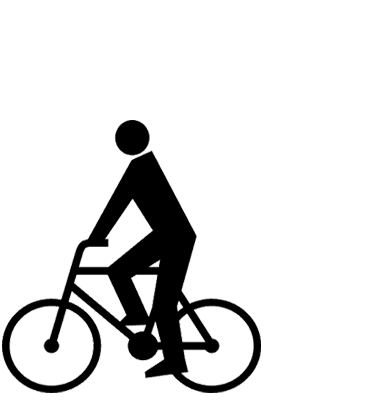
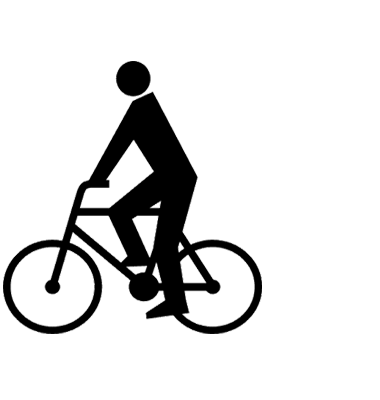
resize sections

Changed region(s): [[0.0, 0.15, 0.6947, 0.99]]

diff --git a/index.html b/index.html
@@ -9,7 +9,7 @@
     
   </head>
   <body>
-    <section id="first" class="story" data-speed="8" data-type="background">      
+    <section id="first" class="section" data-speed="8" data-type="background">      
       <div class="bicycler" data-type="sprite" data-offsetY="100" data-Xposition="50%" data-speed="-2"></div>    
       <article>
         <div id="floating-tacos">
@@ -752,19 +752,19 @@
       </article>
     </section>
       
-    <section id="second" class="story" data-speed="4" data-type="background">
+    <section id="second" class="section" data-speed="4" data-type="background">
       <article>
         <h1>A conference based on bicycles and tacos</h1>
-        <p>Day 1: Oakland, California<br>
-          Day 2: San Francisco, California<br>
-          Free to attend, see map below for details
+        <p><strong>Day 1:</strong> Oakland, California <strong>Day 2:</strong> San Francisco, California</p>
+        <p>
+          Free to attend, see map below for the starting locations. TacoConf is a mobile conference so if you want to stay up to date in real-time then follow <a href="http://twitter.com/tacoconf">@tacoconf</a> on twitter.
         </p>
         <h2>Are you serious?</h2>
         <p>Yes. We have arranged for all kinds of talks about food, culture and technology. In addition, attendees will ride their bicycles on a mini-tour of some of the best <a href="http://en.wikipedia.org/wiki/Antojito">antojitos</a> that the Bay Area offers.
         <h2>What to bring</h2>
         <p>A bicycle + some cash to buy tacos. Bonus points if you bring your significant other and/or kids. TacoConf is fun for the whole family!</p>
         <p>Be prepared to bicycle between taco trucks and taquerias and hear presentations from interesting people!</p>
-        <p>Speakers (semi-complete list):
+        <p>Speakers:
           <a href="https://twitter.com/#!/aq">@aq</a>
           <a href="https://twitter.com/#!/izs">@izs</a>
           <a href="https://twitter.com/#!/burritojustice">@burritojustice</a>
@@ -776,12 +776,13 @@
           <a href="https://twitter.com/#!/cfarivar">@cfarivar</a>
           <a href="https://twitter.com/#!/cramforce">@cramforce</a>
           <a href="https://twitter.com/#!/CATacoTrucks">@CATacoTrucks</a>
-          
         </p>
         <p>Each speaker will on present on a single day so come on out for both days to see them all!</p>
-        <p>Watch <a href="http://twitter.com/tacoconf">our twitters</a> for more details)</p>
+        <p>Watch <a href="http://twitter.com/tacoconf">our twitters</a> for more details</p>
         <a href="https://twitter.com/share" class="twitter-share-button" data-url="http://tacoconf.com" data-text="A conference based on tacos and bicycles! #tacoconf">Tweet</a>
         <script>!function(d,s,id){var js,fjs=d.getElementsByTagName(s)[0];if(!d.getElementById(id)){js=d.createElement(s);js.id=id;js.src="http://platform.twitter.com/widgets.js";fjs.parentNode.insertBefore(js,fjs);}}(document,"script","twitter-wjs");</script>
+        <h2>Do I need to RSVP?</h2>
+        <p>Nope, but you can optionally follow the event and see other details at <a href="http://lanyrd.com/2012/tacoconf/">lanyrd.com/2012/tacoconf</a></p>
         <p>
           <div id="sponsors">
             GENEROUSLY SPONSORED BY:
@@ -794,7 +795,7 @@
       </article>
     </section>
     
-    <section id="third" class="story" data-speed="6" data-type="background" data-offsetY="250">      
+    <section id="third" class="section" data-speed="6" data-type="background" data-offsetY="250">      
       <div class="photograph" data-type="sprite" data-offsetY="1250" data-Xposition="25%" data-speed="2"></div>
         <article>
           <h2>Scrolling Sprites</h2>

diff --git a/style.css b/style.css
@@ -1,12 +1,12 @@
-.story { height: 800px; padding: 0; margin: 0; width: 100%; max-width: 1920px; position: relative; margin: 0 auto; border-top: 1px solid rgba(255,255,255,0.3); border-bottom: 1px solid rgba(0,0,0,0.4); box-shadow: 0 0 50px rgba(0,0,0,0.8);}
+.section { height: 700px; padding: 0; margin: 0; width: 100%; max-width: 1920px; position: relative; margin: 0 auto; border-top: 1px solid rgba(255,255,255,0.3); border-bottom: 1px solid rgba(0,0,0,0.4); box-shadow: 0 0 50px rgba(0,0,0,0.8);}
 
 #first { background: url(texture-noise.png) }
 #second { background: url(tacotruck.jpg) 50% 0 no-repeat fixed; }
 
-#first .bicycler { background: url(bicycler.png) 50% 100px no-repeat fixed; min-height: 800px; padding: 0; margin: 0; width: 100%; max-width: 1920px; position: relative; margin: 0 auto; }
+#first .bicycler { background: url(bicycler.png) 50% 100px no-repeat fixed; min-height: 700px; padding: 0; margin: 0; width: 100%; max-width: 1920px; position: relative; margin: 0 auto; }
 #first article { width: 100%; top: 0px; position: absolute; text-align: center; }
 
-#second { padding: 50px 0;}
+#second { padding: 50px 0; height: 1000px !important; }
 #second article { background: #fafafa; color: #000; width: 445px; margin-left: 100px; padding: 20px; line-height: 1.5em; box-shadow: 0 0 25px rgba(0,0,0,0.3); border: 1px solid rgba(150,150,150,0.1); }
 
 #third article {  background-color: #333; color: #fff; padding: 10px 20px; margin: 100px 0 0 60%; text-shadow: 0 -1px 0 rgba(0,0,0,0.5); line-height: 1.5em; color: #fff; position: absolute; top: 0; box-shadow: 0 0 25px rgba(0,0,0,0.3); border: 1px solid rgba(150,150,150,0.1); }

diff --git a/initialize-taco-magic.js b/initialize-taco-magic.js
@@ -66,7 +66,7 @@ $(function() {
   ]
 
   var w = document.body.offsetWidth
-  var h = "800"
+  var h = "700"
 
   var nodes = d3.range(200).map(function() { return {radius: Math.random() * 12 + 4}; }),
       colors = ["#B34620", "#B34620", "#BE3B66", "#BFE165", "#7BA120"]
@@ -85,7 +85,7 @@ $(function() {
 
   var tacoLeft = w/2 - 373
   var taco = d3.select("#tacoconf-logo-g")
-    .attr('transform', 'translate(' + tacoLeft + ',-350)')
+    .attr('transform', 'translate(' + tacoLeft + ',-420)')
 
   var svg = d3.select("#floating-tacos svg")
     .attr("width", w)
